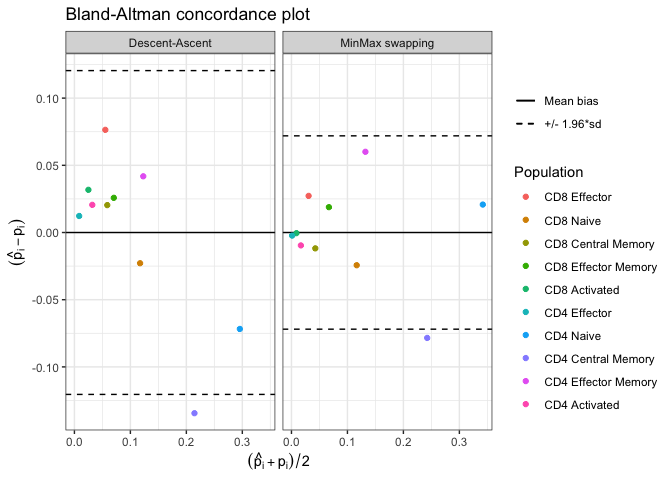
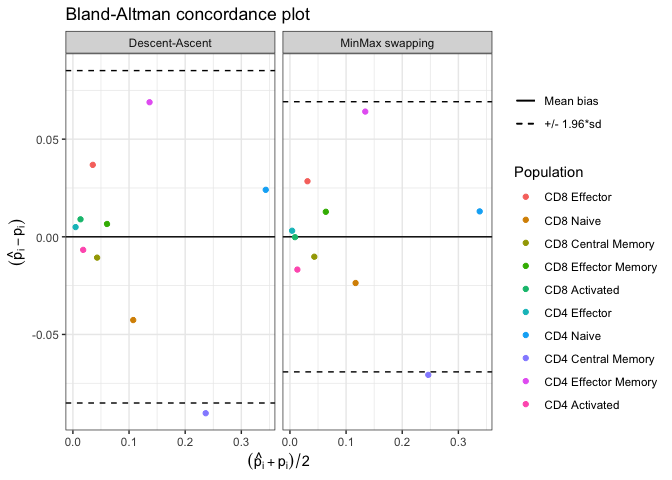
CRAN Badge added

diff --git a/README.md b/README.md
@@ -6,6 +6,8 @@
 <!-- badges: start -->
 
 [![R-CMD-check](https://github.com/sistm/CytOpt-R/workflows/R-CMD-check/badge.svg)](https://github.com/sistm/CytOpt-R/actions)
+[![CRAN
+status](https://www.r-pkg.org/badges/version/CytOpT)](https://CRAN.R-project.org/package=CytOpT)
 <!-- badges: end -->
 
 `CytOpT` uses regularized optimal transport to directly estimate the
@@ -49,6 +51,8 @@ This is a basic example of `CytOpt` usage:
 
 ``` r
 library(CytOpT)
+#> Warning in register(): Can't find generic `scale_type` in package ggplot2 to
+#> register S3 method.
 # Load source Data
 data("HIPC_Stanford")
 ```
@@ -69,29 +73,29 @@ res <- CytOpT(X_s = HIPC_Stanford_1228_1A, X_t = HIPC_Stanford_1369_1A,
               step_grad = 10, step = 5, power = 0.99, 
               method='both')
 #> Running Desent-ascent optimization...
-#> Done (14.995s)
+#> Done (1.408s)
 #> Running MinMax optimization...
-#> Done (16.96s)
+#> Done (18.869s)
 ```
 
 ``` r
 summary(res)
 #> Estimation of cell proportions with Descent-Ascent and MinMax swapping  from CytOpt:
-#>                     Gold_standard Descent_ascent       MinMax
-#> CD8 Effector          0.017004001     0.09340403 4.425717e-02
-#> CD8 Naive             0.128736173     0.10588996 1.043952e-01
-#> CD8 Central Memory    0.048481996     0.06887050 3.668802e-02
-#> CD8 Effector Memory   0.057484114     0.08328624 7.635311e-02
-#> CD8 Activated         0.009090374     0.04086176 8.601677e-03
-#> CD4 Effector          0.002324076     0.01461945 8.564472e-06
-#> CD4 Naive             0.331460344     0.25969356 3.522540e-01
-#> CD4 Central Memory    0.281713344     0.14725293 2.032700e-01
-#> CD4 Effector Memory   0.102082843     0.14391672 1.621501e-01
-#> CD4 Activated         0.021622735     0.04220485 1.202218e-02
+#>                     Gold_standard Descent_ascent      MinMax
+#> CD8 Effector          0.017004001    0.053840853 0.045459289
+#> CD8 Naive             0.128736173    0.086107758 0.105080403
+#> CD8 Central Memory    0.048481996    0.037818291 0.038277845
+#> CD8 Effector Memory   0.057484114    0.064050408 0.070288205
+#> CD8 Activated         0.009090374    0.018054875 0.008915075
+#> CD4 Effector          0.002324076    0.007303098 0.005434024
+#> CD4 Naive             0.331460344    0.355519302 0.344481072
+#> CD4 Central Memory    0.281713344    0.191385560 0.211017717
+#> CD4 Effector Memory   0.102082843    0.170991204 0.166204283
+#> CD4 Activated         0.021622735    0.014928650 0.004842086
 #> 
 #> Final Kullback-Leibler divergences:
 #>  Descent-Ascent MinMax swapping 
-#>      0.20054067      0.05445004
+#>               0               0
 ```
 
 ``` r
